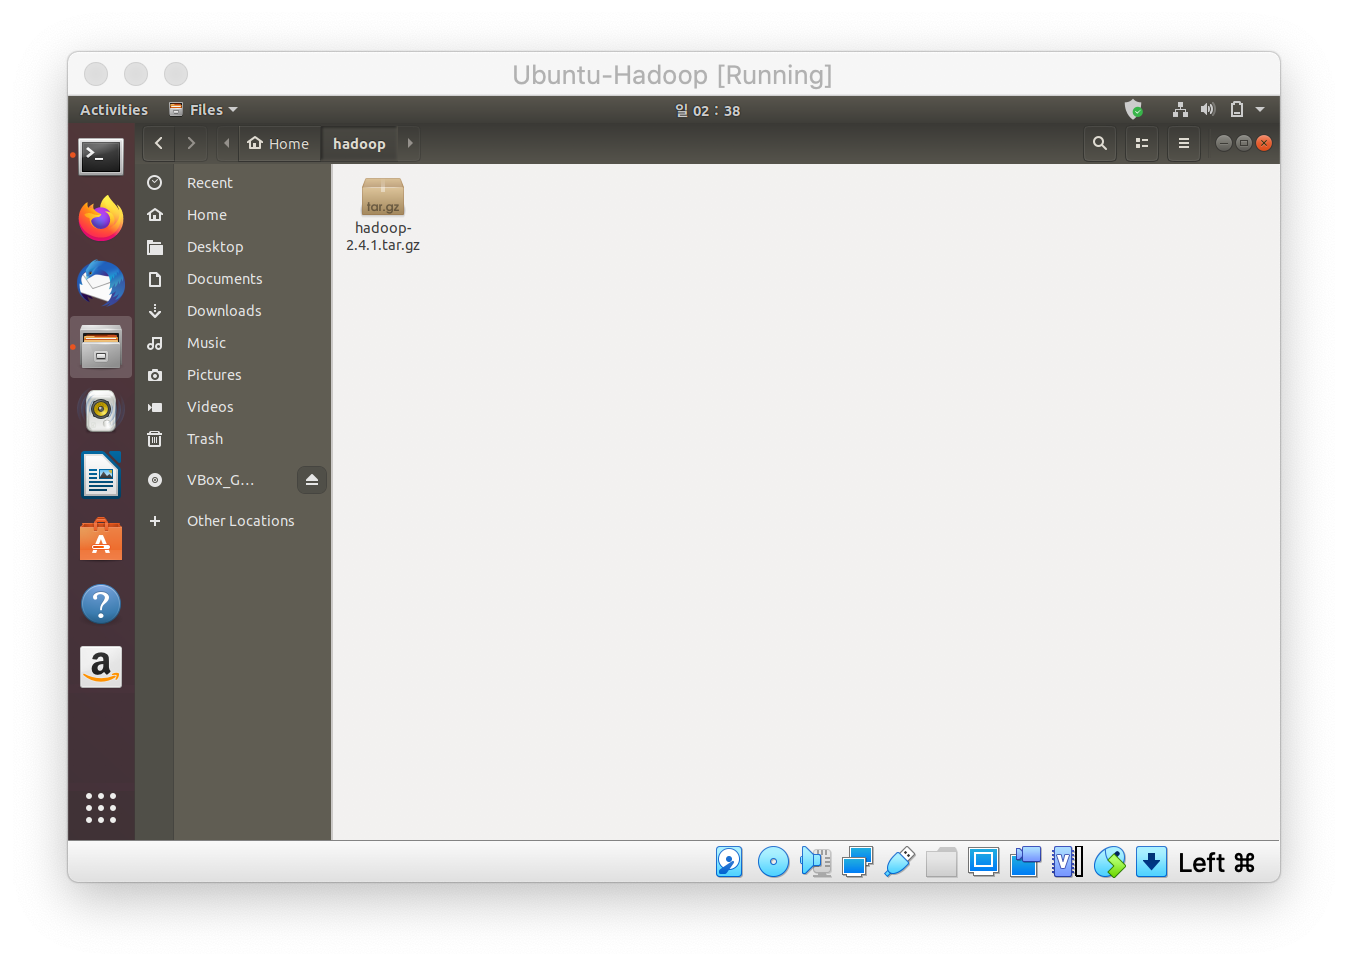
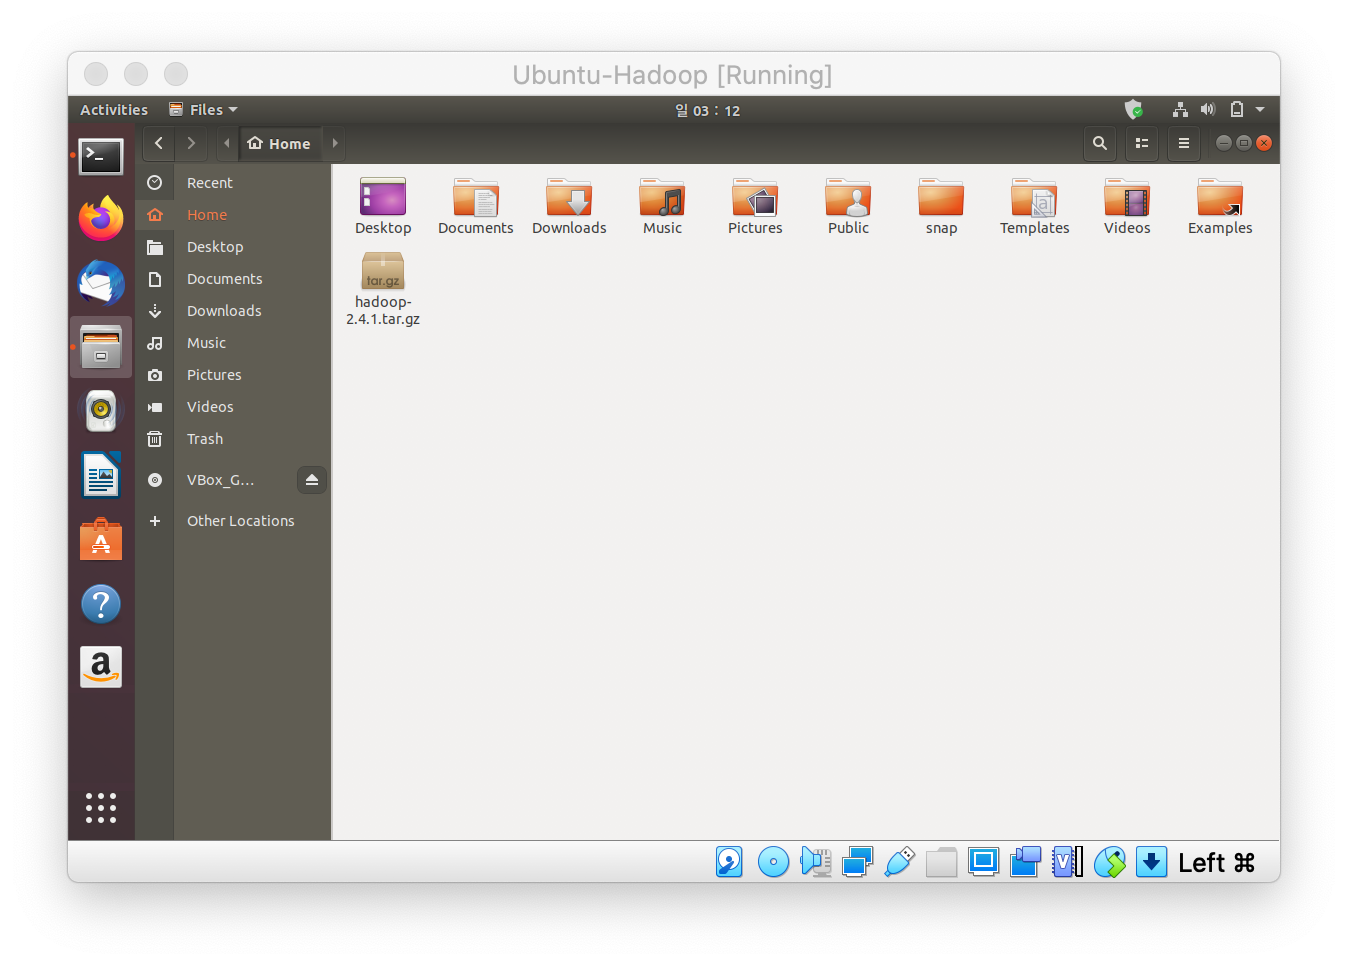
add installing hadoop on pseudo distributed mode v1

diff --git a/_posts/2020-02-02-installing-hadoop-on-pseudo-distributed-mode.md b/_posts/2020-02-02-installing-hadoop-on-pseudo-distributed-mode.md
@@ -1,0 +1,89 @@
+---
+title: "[Hadoop] Installing Hadoop on Pseudo Distributed Mode"
+excerpt: "Tutorials Point (India) Pvt. Ltd."
+
+categories:
+  - scratch
+tags:
+  - scratch
+  - hadoop
+  - big data
+last_modified_at: 2020-02-02T04:00+09:00
+---
+**Installing Hadoop in Pseudo Distributed mode**  
+  - To setup hadoop for Pseudo distributed mode Set up the following XML files located at /home/eliotjang/hadoop/etc/hadoop/
+    1. core-site.xml
+    2. hdfs-site.xml
+    3. mapred-site.xml
+  - (**NOTE:** eliotjang folder is my folder, so you should input your own folder)  
+
+**Setup core-site.xml**  
+  - Open core-site.xml from the given path /home/eliotjang/hadoop/etc/hadoop/core-site.xml
+  - Put the Following lines in the xml file.  
+    > sudo gedit /home/eliotjang/hadoop/etc/hadoop/core-site.xml  
+      ```
+      <configuration>
+	<property>
+	  <name>fs.defaultFS</name>
+	  <value>hdfs://localhost:9000</value>
+	</property>
+	<property>
+	  <name>hadoop.tmp.dir</name>
+	  <value>/home/eliotjang/hadoop/temp</value>
+	</property>
+      <configuration>
+      ```
+  - ![](https://eliotjang.github.io/assets/images/hadoop/virtualbox/core-site.png){: .align-center}
+    - (**NOTE:** you should change eliotjang to your own folder name)
+
+**Setup hdfs-site.xml**  
+  - Open hdfs-site.xml from the given path /home/eliotjang/hadoop/etc/hadoop/hdfs-site.xml
+  - Put the Following lines in the xml file
+    > sudo gedit /home/eliotjang/hadoop/etc/hadoop/hdfs-site.xml  
+    ```
+    <configuration>
+      <property>
+	<name>dfs.replication</name>
+	<value>1</value>
+      </property>
+    </configuration>
+    ```  
+  - ![](https://eliotjang.github.io/assets/images/hadoop/virtualbox/hdfs-site.png){: .align-center}  
+
+
+**Setup  mapred-site.xml**  
+  - Open mapred-site.xml from the giben path /home/eliotjang/hadoop/etc/hadoop/mapred-site.xml
+  - If the file is not present copy the mapred-site.xml.template file and rename the copied file with mapred-site.xml
+    > cd /home/eliotjang/hadoop/etc/hadoop/  
+    > cp mapred-site.xml.template mapred-site.xml  
+    > sudo gedit mapred-site.xml  
+  - Or the file is exist, Put the Follwoing line in the xml file
+    > sudo gedit /home/eliotjang/hadoop/etc/hadoop/mapred-site.xml  
+    ```
+    <configuration>
+      <property>
+	<name>mapred.job.tracker</name>
+	<value>localhost:9001</value>
+      </property>
+    <configuration>
+    ```  
+  - ![](https://eliotjang.github.io/assets/images/hadoop/virtualbox/mapred-site.png){: .align-center}  
+
+**Setup hadoop-env.sh**  
+  - Open hadoop-env.sh from the given path /home/eliotjang/hadoop/etc/hadoop/hadoop-env.sh
+    - just double click the file.
+  - Export the JAVA_HOME environment variable in that file.
+  - Put the Following line in that file.  
+    >export JAVA_HOME=/usr/local/java/jdk1.8.0_241/
+  - ![](https://eliotjang.github.io/assets/images/hadoop/virtualbox/direct-java-home.png){: .align-center}    
+  - put name node format in Termianl
+    > $ hadoop namenode -format  
+
+**Start the Hadoop:**  
+  - put Following command in termianl
+    > $ ./hadoop/sbin/start-all.sh
+  - put Following command in termianl
+    > $ jps  
+  - ![](https://eliotjang.github.io/assets/images/hadoop/virtualbox/jps.png){: .align-center}
+  - in the brower go to localhost:50070/ to get the hadoop overview page
+![](https://eliotjang.github.io/assets/images/hadoop/virtualbox/localhost.png){: .align-center}

diff --git a/_posts/2020-02-01-installing-hadoop-for-single-node-cluster-scratch.md b/_posts/2020-02-01-installing-hadoop-for-single-node-cluster-scratch.md
@@ -48,6 +48,6 @@ last_modified_at: 2020-02-02T02:00:00+09:00
   - (**NOTE:** you should changed name **eliotjang** to your own name. check **$ cd ./home** and **$ ls**. you can know your own folder name.)
   - ![](https://eliotjang.github.io/assets/images/hadoop/virtualbox/moved-hadoop-targz.png){: .align-center}
   - Follow the lines to go to the hadoop directory from home directory.
-    >`$ cd hadoop/`  
     >`$ tar xzf hadoop`
-
+    >`$ mv hadoop-2.4.1 hadoop`
+    >`$ rm hadoop-2.4.1.tar.gz`
